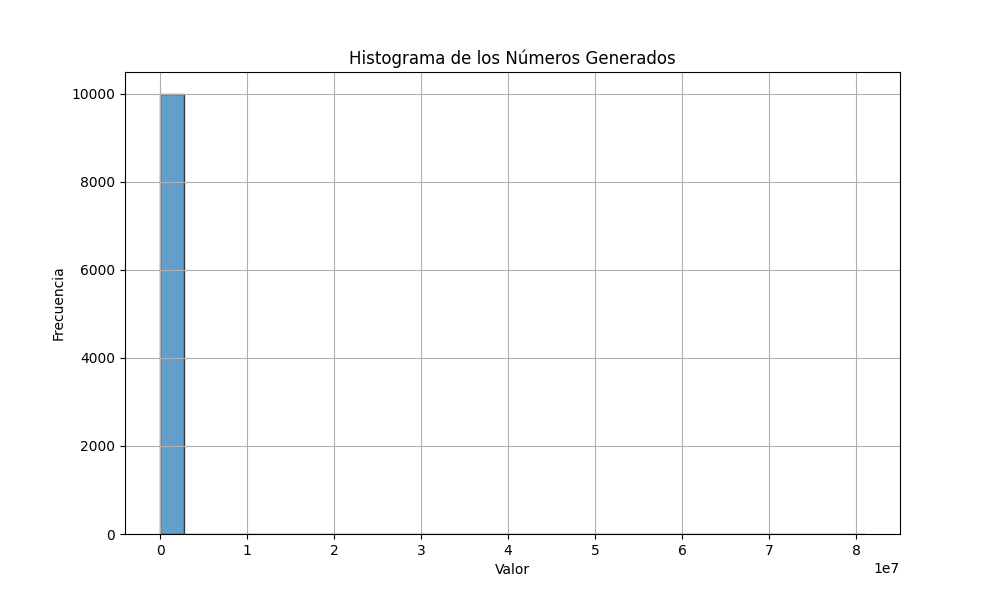
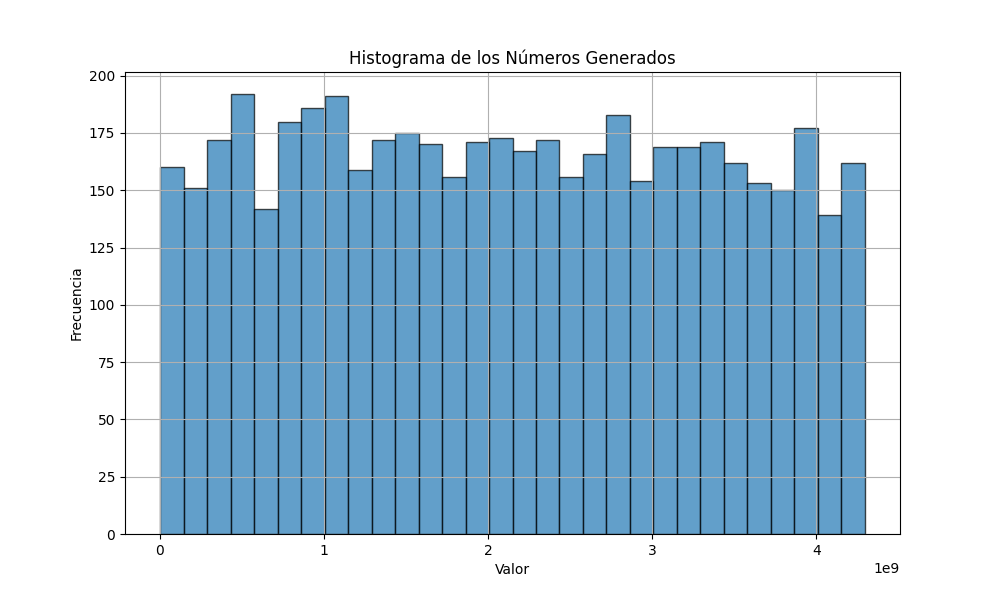
Cambios y version final (creo)

diff --git a/tps/2.1/tp2_1.py b/tps/2.1/tp2_1.py
@@ -15,16 +15,13 @@ if sys.argv[1] != '-c' or sys.argv[3] != '-n' or sys.argv[5] !='-s':
 
 valores_aleatorios_generados = []
 valores_aleatorios_generados_binarios = []
-numeros_uno = 0
-numeros_cero = 0
 
+print("")
 if (tipo_test_aleatorio == "media_cuadrado"):
     for i in range(cant_valores_generados):
         valor_cuadrado = (semilla_generadora**2)
         valores_aleatorios_generados.append(valor_cuadrado)
         valor_cuadrado_binario = bin(valor_cuadrado)[2:]
-        numeros_uno = numeros_uno + valor_cuadrado_binario.count('1')
-        numeros_cero = numeros_cero + valor_cuadrado_binario.count('0')
         valores_aleatorios_generados_binarios.append(valor_cuadrado_binario)
         valor_cuadrado_rellenado = str(valor_cuadrado).zfill(8)
         semilla_generadora = int(valor_cuadrado_rellenado[2:6])
@@ -38,8 +35,6 @@ if (tipo_test_aleatorio == "gcl"):
         semilla_generadora = (a * semilla_generadora + c) % m
         valores_aleatorios_generados.append(semilla_generadora)
         semilla_generadora_binaria = bin(semilla_generadora)[2:]
-        numeros_uno = numeros_uno + semilla_generadora_binaria.count('1')
-        numeros_cero = numeros_cero + semilla_generadora_binaria.count('0')
         valores_aleatorios_generados_binarios.append(semilla_generadora_binaria)
         print(f'[{i}]    {semilla_generadora}     {semilla_generadora_binaria}')
 
@@ -48,37 +43,110 @@ if (tipo_test_aleatorio == "random_python"):
         valor_generado = random.randint(1, 2**32)
         valores_aleatorios_generados.append(valor_generado)
         valor_generado_binario = bin(valor_generado)[2:]
-        numeros_uno = numeros_uno + valor_generado_binario.count('1')
-        numeros_cero = numeros_cero + valor_generado_binario.count('0')
         valores_aleatorios_generados_binarios.append(valor_generado_binario)
         print(f'[{i}]       {valor_generado}     {valor_generado_binario}')
 
 
-## Prueba Monobit y transformacion de los numeros generados a binario
-suma_ceros_unos = numeros_cero + numeros_uno
+
+
+#Transformar valores_aleatorios_generados_binarios (contiene strings binarios) en bits individuales y despues contamos los ceros, unos y la cantidad de digitos
+bits = [int(bit) for bin_str in valores_aleatorios_generados_binarios for bit in bin_str]
+numeros_uno = bits.count(1)
+numeros_cero = bits.count(0)
+cantidad_digitos_binarios = len(bits)
 print("")
-print("Prueba Monobit")
+print("Lista de bits")
+print(bits)
+
+
+
+
+## Prueba de autocorrelacion
+n = len(bits)
+matches = sum(bits[i] == bits[i + 1] for i in range(n - 1))
+p = 0.5
+expected = (n - 1) * p
+variance = (n - 1) * p * (1 - p)
+z = (matches - expected) / (variance ** 0.5)
+print("")
+print("PRUEBA DE AUTOCORRELACION")
+print(f"Autocorrelación con desfase {1}: z = {z}")
+if abs(z) < 1.96:
+    print("Resultado: La secuencia pasa la prueba de autocorrelación (nivel de confianza 95%).")
+else:
+    print("Resultado: La secuencia NO pasa la prueba de autocorrelación.")
+
+
+
+
+## Prueba de corridas o Runs Test
+n = len(bits)
+pr = sum(bits) / n  # proporción de unos
+
+print("")
+print("PRUEBA DE CORRIDAS O RUNS TEST")
+# Chequeo previo: la proporción debe estar razonablemente cerca de 0.5
+if abs(pr - 0.5) > 0.2:
+    print(f"Proporción de unos (pi) = {pr}")
+    print("La secuencia tiene un sesgo muy fuerte. No se puede aplicar el Runs Test.")
+else:
+    # Contar número de corridas (cambios entre 0s y 1s)
+    Vn = 1 + sum(bits[i] != bits[i + 1] for i in range(n - 1))
+
+    # Calcular valor esperado y varianza
+    expected = 2 * n * pr * (1 - pr)
+    variance = (2 * n * pr * (1 - pr) * (2 * n * pr * (1 - pr) - 1)) / (n - 1)
+    z = (Vn - expected) / (variance ** 0.5)
+
+    # Mostrar resultados
+    print(f"Proporción de unos (pr): {pr}")
+    print(f"Número de corridas observadas (Vn): {Vn}")
+    print(f"Valor esperado de corridas: {expected}")
+    print(f"Varianza: {variance}")
+    print(f"Estadístico z: {z}")
+
+    if abs(z) < 1.96:
+        print("Resultado: La secuencia pasa el Runs Test (nivel de confianza 95%).")
+    else:
+        print("Resultado: La secuencia NO pasa el Runs Test.")
+
+
+
+
+## Prueba Monobit y transformacion de los numeros generados a binario
+print("")
+print("PRUEBA DE MONOBIT")
 print("Cantidad de ceros: ", numeros_cero)
 print("Cantidad de unos: ", numeros_uno)
-print("Cantidad de dig binarios: ", suma_ceros_unos)
-print("Porcentaje de unos: ", (numeros_uno/suma_ceros_unos)*100)
-print("Porcentaje de ceros: ", (numeros_cero/suma_ceros_unos)*100)
+print("Cantidad de dig binarios: ", cantidad_digitos_binarios)
+print("Porcentaje de unos: ", (numeros_uno/cantidad_digitos_binarios)*100)
+print("Porcentaje de ceros: ", (numeros_cero/cantidad_digitos_binarios)*100)
 
-
-numero_verificacion_monobit = ((abs(numeros_uno - numeros_cero))/(math.sqrt(suma_ceros_unos)))
+numero_verificacion_monobit = abs(numeros_uno - numeros_cero) / math.sqrt(cantidad_digitos_binarios)
 print("Numero de verificacion de test monobit: ", numero_verificacion_monobit)
+if numero_verificacion_monobit < 1.96:
+    print("La secuencia pasa la prueba Monobit (nivel de confianza 95%).")
+else:
+    print("La secuencia NO pasa la prueba Monobit.")
+
+
+
 
 
 ## Kolmogorov smirnov test
-kstest_result = ss.kstest(valores_aleatorios_generados, 'uniform', args=(min(valores_aleatorios_generados), max(valores_aleatorios_generados)-min(valores_aleatorios_generados)))
+# Normalizamos los datos para que estén en el rango [0, 1] con criterio MIN-MAX
+valores_aleatorios_generados_normalizados = [(x - min(valores_aleatorios_generados)) / (max(valores_aleatorios_generados) - min(valores_aleatorios_generados)) for x in valores_aleatorios_generados]
+kstest_result = ss.kstest(valores_aleatorios_generados_normalizados, 'uniform')
 print("")
-print("Test Kolmogorov Smirnov")
+print("PRUEBA DE KOLMOGOROV SMIRNOV")
 print(f"Estadístico de la prueba (Kstest): {kstest_result.statistic}")
 print(f"Valor p (Kstest): {kstest_result.pvalue}")
 if(kstest_result.pvalue >= 0.05):
     print("Los numeros generados parecen seguir una distribucion uniforme")
 else:
     print("Los numeros generados NO parecen seguir una distribucion uniforme")
+
+
 
 
 ## Grafica de dispersion
@@ -89,6 +157,9 @@ plt.xlabel('Índice')
 plt.ylabel('Valor Generado')
 plt.savefig('Grafica_dispersion.png') 
 plt.show()
+
+
+
 
 
 ## Histograma de numeros generados
@@ -102,10 +173,13 @@ plt.savefig('Histograma_numeros_generados.png')
 plt.show()
 
 
+
+
 ## Grafica de distribucion de ceros y unos binarios
 plt.figure(figsize=(8,6))
-plt.bar(["Ceros", "Unos"], [((numeros_cero/suma_ceros_unos)*100), ((numeros_uno/suma_ceros_unos)*100)], color='blue')
+plt.bar(["Ceros", "Unos"], [((numeros_cero/cantidad_digitos_binarios)*100), ((numeros_uno/cantidad_digitos_binarios)*100)], color='blue')
 plt.xlabel('Valor')
+plt.grid(True)
 plt.ylabel('Distribucion binaria')
 plt.title('Monobit test')
 plt.savefig('Monobit_test.png')        
